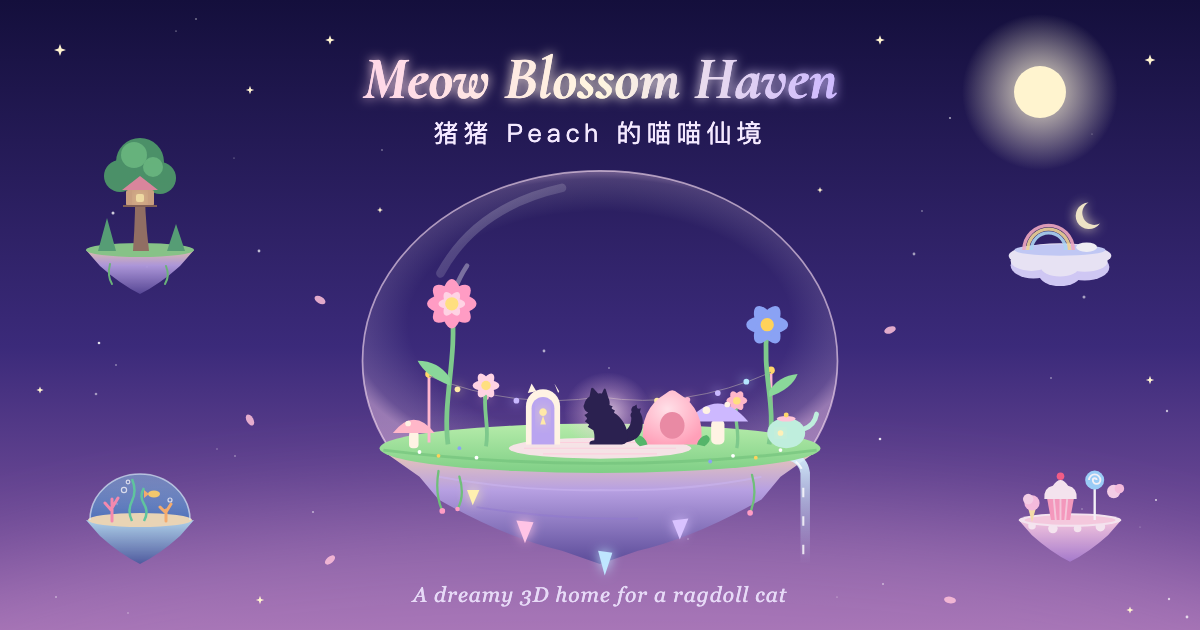
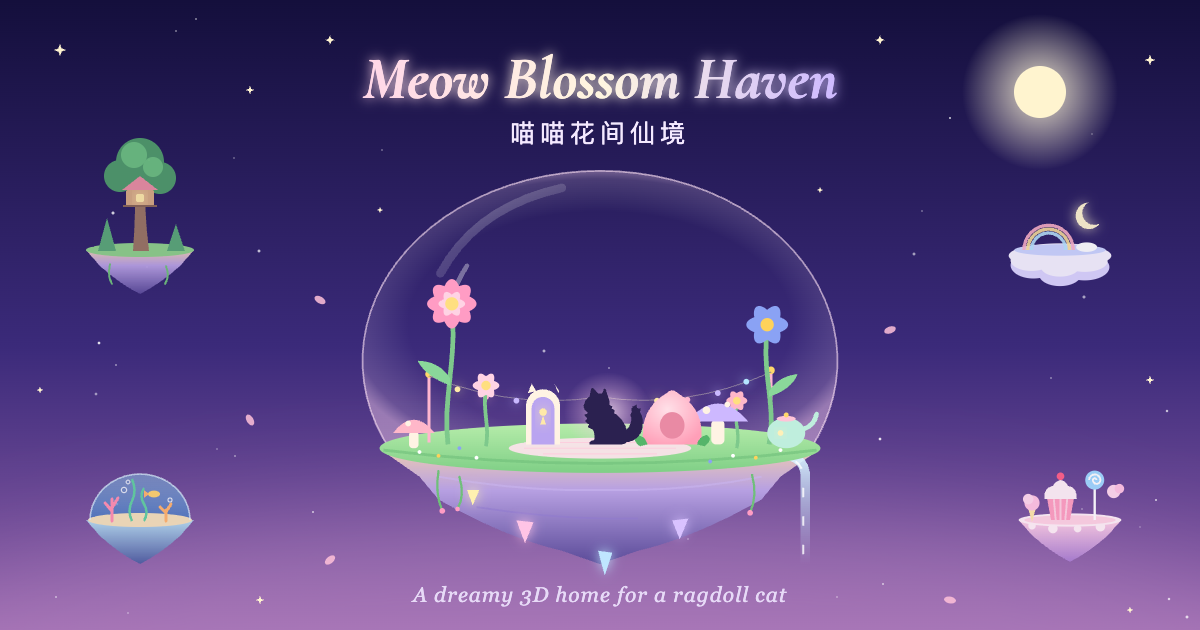
Gentler 'send on a trip' with in-row confirm, cats give up instead of pushing through furniture, new Chinese title
- The remove button (browser confirm() can be blocked in embedded web views) is now a two-tap
  in-row confirmation, renamed 去旅行 / 确定出发？ with a farewell status line.
- A cat that makes no headway re-plans twice, then drops the plan and picks something else;
  a 3 s watchdog covers pass-through walks too. Stuck events in the 4-cat sim: 29 -> 3-5.
- Chinese title: 喵喵花间仙境 (landing page, OG card, banner, README).

Changed region(s): [[0.37, 0.181, 0.6475, 0.2413]]

diff --git a/index.html b/index.html
@@ -14,10 +14,10 @@
 <link rel="apple-touch-icon" href="apple-touch-icon.png">
 <meta property="og:type" content="website">
 <meta property="og:site_name" content="Meow Blossom Haven">
-<meta property="og:title" content="Meow Blossom Haven · 猪猪的喵喵仙境">
+<meta property="og:title" content="Meow Blossom Haven · 喵喵花间仙境">
 <meta property="og:description" content="A dreamy, interactive 3D home for Peach the ragdoll cat: five floating islands to explore. 布偶猫猪猪的梦幻 3D 浮空岛小屋。">
 <meta property="og:url" content="https://meow-blossom-haven.summercommences.com/">
-<meta property="og:image" content="https://meow-blossom-haven.summercommences.com/assets/og.png?v=3">
+<meta property="og:image" content="https://meow-blossom-haven.summercommences.com/assets/og.png?v=4">
 <meta property="og:image:type" content="image/png">
 <meta property="og:image:width" content="1200">
 <meta property="og:image:height" content="630">
@@ -80,6 +80,7 @@
   .cp-who{flex:1;min-width:0;margin-left:8px} .cp-who b{display:block;font-size:15px;overflow:hidden;text-overflow:ellipsis;white-space:nowrap} .cp-who small{opacity:.78}
   .cp-btn{border:1px solid var(--gold);background:rgba(255,255,255,.12);border-radius:999px;padding:6px 13px;margin-left:6px;font-size:13px}
   .cp-btn.main{background:linear-gradient(135deg,#fff0d0,#ffc4dc,#cdb9ff);color:#5a3565;border:none;font-weight:700}
+  .cp-btn.warn{background:#ff8fab;color:#4a1830;border-color:#ff8fab;font-weight:700}
   .cp-btn[disabled]{opacity:.45;cursor:default}
   .cp-bond{display:block;color:#ffc4dc;letter-spacing:.08em;font-size:12px}
   .cp-sec{margin:12px 0 6px;font-size:13px;opacity:.85;letter-spacing:.06em}
@@ -181,7 +182,7 @@
 <div id="flash"></div>
 <div id="start"><div>
   <h1 class="serif">Meow Blossom Haven</h1>
-  <p>猪猪 Peach 的喵喵仙境</p>
+  <p>喵喵花间仙境</p>
   <button id="enter" disabled>加载中…</button>
   <small>首次打开需要联网加载 Three.js · 建议打开声音 · 点击任意门可前往其他浮空岛</small>
 </div></div>
@@ -228,7 +229,7 @@ const soft = (color, o = {}) => new THREE.MeshPhysicalMaterial({ color, roughnes
 
 /* ───────────── language (中文 / English) ───────────── */
 const EN = {
-  '猪猪正在等你…': 'Peach is waiting for you…', '猪猪 Peach 的喵喵仙境': "Peach the ragdoll's wonderland", '加载中…': 'Loading…', '✨ 进入小屋': '✨ Enter',
+  '猪猪正在等你…': 'Peach is waiting for you…', '喵喵花间仙境': 'A blossom haven for cats', '加载中…': 'Loading…', '✨ 进入小屋': '✨ Enter',
   '首次打开需要联网加载 Three.js · 建议打开声音 · 点击任意门可前往其他浮空岛': 'First load needs a network connection · Sound on recommended · Click the door to visit other isles',
   '加载较慢或失败：请检查网络连接后刷新页面': 'Loading is slow or failed — check your connection and refresh',
   '拖拽旋转 · 滚轮缩放 · 点击猪猪、玩具和家具': 'Drag to orbit · Scroll to zoom · Click Peach, toys and furniture',
@@ -1916,6 +1917,9 @@ function floorClear() { // slide out of furniture: try small steps around and ta
   if (best) { pos.x = best.x; pos.z = best.z; }
 }
 function finish(s) { if (s.loc) cat.loc = s.loc; cat.step = null; }
+function giveUp() { // can't get there (furniture or another cat in the way): drop the plan and think of something else, rather than pushing through
+  if (cat.lock || cat.loc !== 'floor' || cat.step?.atomic) return false;
+  cat.step = null; cat.script = []; cat.idleT = rnd(.4, 1.2); return true; }
 const headPos = () => cat.head.getWorldPosition(new V3());
 function onPet() {
   bondUp(cat, BOND_GAIN.pet);
@@ -1969,12 +1973,13 @@ function updateCat(dt, t) {
           if (s.path === undefined || (run && (s.rp = (s.rp || 0) + dt) > .8)) { s.path = findPath(pos, tgt); s.rp = 0; }
           while (s.path.length && Math.hypot(s.path[0].x - pos.x, s.path[0].z - pos.z) < .28) s.path.shift();
           if (s.path.length) { const ax = s.path[0].x - pos.x, az = s.path[0].z - pos.z, L = Math.hypot(ax, az); mx = ax / L; mz = az / L; }
-          if (!s.lp) { s.lp = pos.clone(); s.st = 0; } else if ((s.st += dt) > .9) { if (Math.hypot(pos.x - s.lp.x, pos.z - s.lp.z) < .25) { s.n = (s.n || 0) + 1; s.path = undefined; if (s.n > 2) s.free = true; } s.lp.copy(pos); s.st = 0; }
+          if (!s.lp) { s.lp = pos.clone(); s.st = 0; } else if ((s.st += dt) > .9) { if (Math.hypot(pos.x - s.lp.x, pos.z - s.lp.z) < .25) { s.n = (s.n || 0) + 1; s.path = undefined; if (s.n > 2 && giveUp()) return; } s.lp.copy(pos); s.st = 0; }
         }
         if (cats.length > 1 && !s.free && !run) [mx, mz] = catAvoid(mx, mz);
         const da = angDiff(Math.atan2(mx, mz), cat.yaw); cat.yaw += clamp(da, -6 * dt, 6 * dt);
         const sp = (s.speed || (run ? 2.7 : 1.25)) * (Math.abs(da) < 1 ? 1 : .3), st = Math.min(sp * dt, d);
         pos.x += mx * st; pos.z += mz * st; if (!s.free) collide(pos, cat.yaw, tgt);
+        if (!s.wp) { s.wp = pos.clone(); s.wt = 0; } else if ((s.wt += dt) > 3) { if (Math.hypot(pos.x - s.wp.x, pos.z - s.wp.z) < .3 && giveUp()) return; s.wp.copy(pos); s.wt = 0; } // watchdog: 3 s with no headway (also on pass-through walks that something keeps pushing back)
         cat.phase += st * 5.4; cat.moving = 1;
       }
     } else if (s.type === 'jump') {
@@ -2267,6 +2272,7 @@ function adopt(o) {
   const spot = SPAWN.find(q => cats.every(c => Math.hypot(c.root.position.x - q.x, c.root.position.z - q.z) > 1.2)) || SPAWN[cats.length % SPAWN.length];
   return makeCat(specFromBreed(o.breed, o.name, o.personality, o.id), spot.clone(), Math.random() * PI * 2);
 }
+let removing = null, removeT = 0; // the cat whose 去旅行 button is waiting for a second tap (去旅行: the cat sets off on a trip)
 let catForm = null; // the adopt form's state while it is open
 const randomForm = () => { const n = pick(CAT_NAMES), lucky = Math.random() < .05, open = Object.keys(BREEDS).filter(k => !BREEDS[k].hidden || unlocked.has(k)); return { breed: lucky ? 'dango' : pick(open), lucky, personality: pick(Object.keys(PERSONALITY_INFO)), name: lang === 'en' ? n[1] : n[0], pair: n }; }; // a suggested name keeps both languages
 function el(tag, cls, text) { const e = document.createElement(tag); if (cls) e.className = cls; if (text != null) e.textContent = text; return e; }
@@ -2283,8 +2289,10 @@ function renderCatPanel() {
     row.appendChild(who);
     const ph = el('button', 'cp-btn', '📷'); ph.title = tr({ zh: '拍照', en: 'Photo' }); ph.addEventListener('click', e => { e.stopPropagation(); selectCat(c); toggleCatPanel(false); takePhoto(c); }); row.appendChild(ph);
     row.addEventListener('click', () => { focusCat(c); renderCatPanel(); });
-    if (!c.spec.permanent) { const rm = el('button', 'cp-btn', tr({ zh: '送走', en: 'Remove' })); rm.addEventListener('click', e => { e.stopPropagation();
-      if (confirm(tr({ zh: `确定让 ${catName(c)} 离开小屋吗？`, en: `Let ${catName(c)} leave the haven?` }))) { removeCat(c); saveCats(); renderCatPanel(); } }); row.appendChild(rm); }
+    if (!c.spec.permanent) { // two taps, confirmed right in the row (browser confirm dialogs can be blocked in embedded web views)
+      const sure = removing === c, rm = el('button', 'cp-btn' + (sure ? ' warn' : ''), tr(sure ? { zh: '确定出发？', en: 'Off it goes?' } : { zh: '去旅行', en: 'Send on a trip' }));
+      rm.addEventListener('click', e => { e.stopPropagation(); if (removing === c) { removing = null; removeCat(c); saveCats(); setStatus({ zh: `${c.spec.name.zh}背上小包去旅行啦 🧳 一路顺风～`, en: `${c.spec.name.en} packed a little bag and set off on a trip 🧳` }); } else { removing = c; clearTimeout(removeT); removeT = setTimeout(() => { removing = null; renderCatPanel(); }, 4000); } renderCatPanel(); });
+      row.appendChild(rm); }
     P.appendChild(row);
   }
   if (!catForm) {

diff --git a/README.zh-CN.md b/README.zh-CN.md
@@ -10,7 +10,7 @@
   <a href="https://meow-blossom-haven.summercommences.com/"><b>▶ 在线体验</b></a>
 </p>
 
-# Meow Blossom Haven · 猪猪的喵喵仙境
+# Meow Blossom Haven · 喵喵花间仙境
 
 为布偶猫**猪猪（Peach）**打造的梦幻 3D 互动小屋：五座漂浮仙岛，每座都有专属的猫爬架、猫窝、隧道和玩具，笼罩在柔和的童话氛围里。整个项目用 [three.js](https://threejs.org) 在一个 HTML 文件里程序化生成，不需要下载任何模型、图片或音频文件。
 
